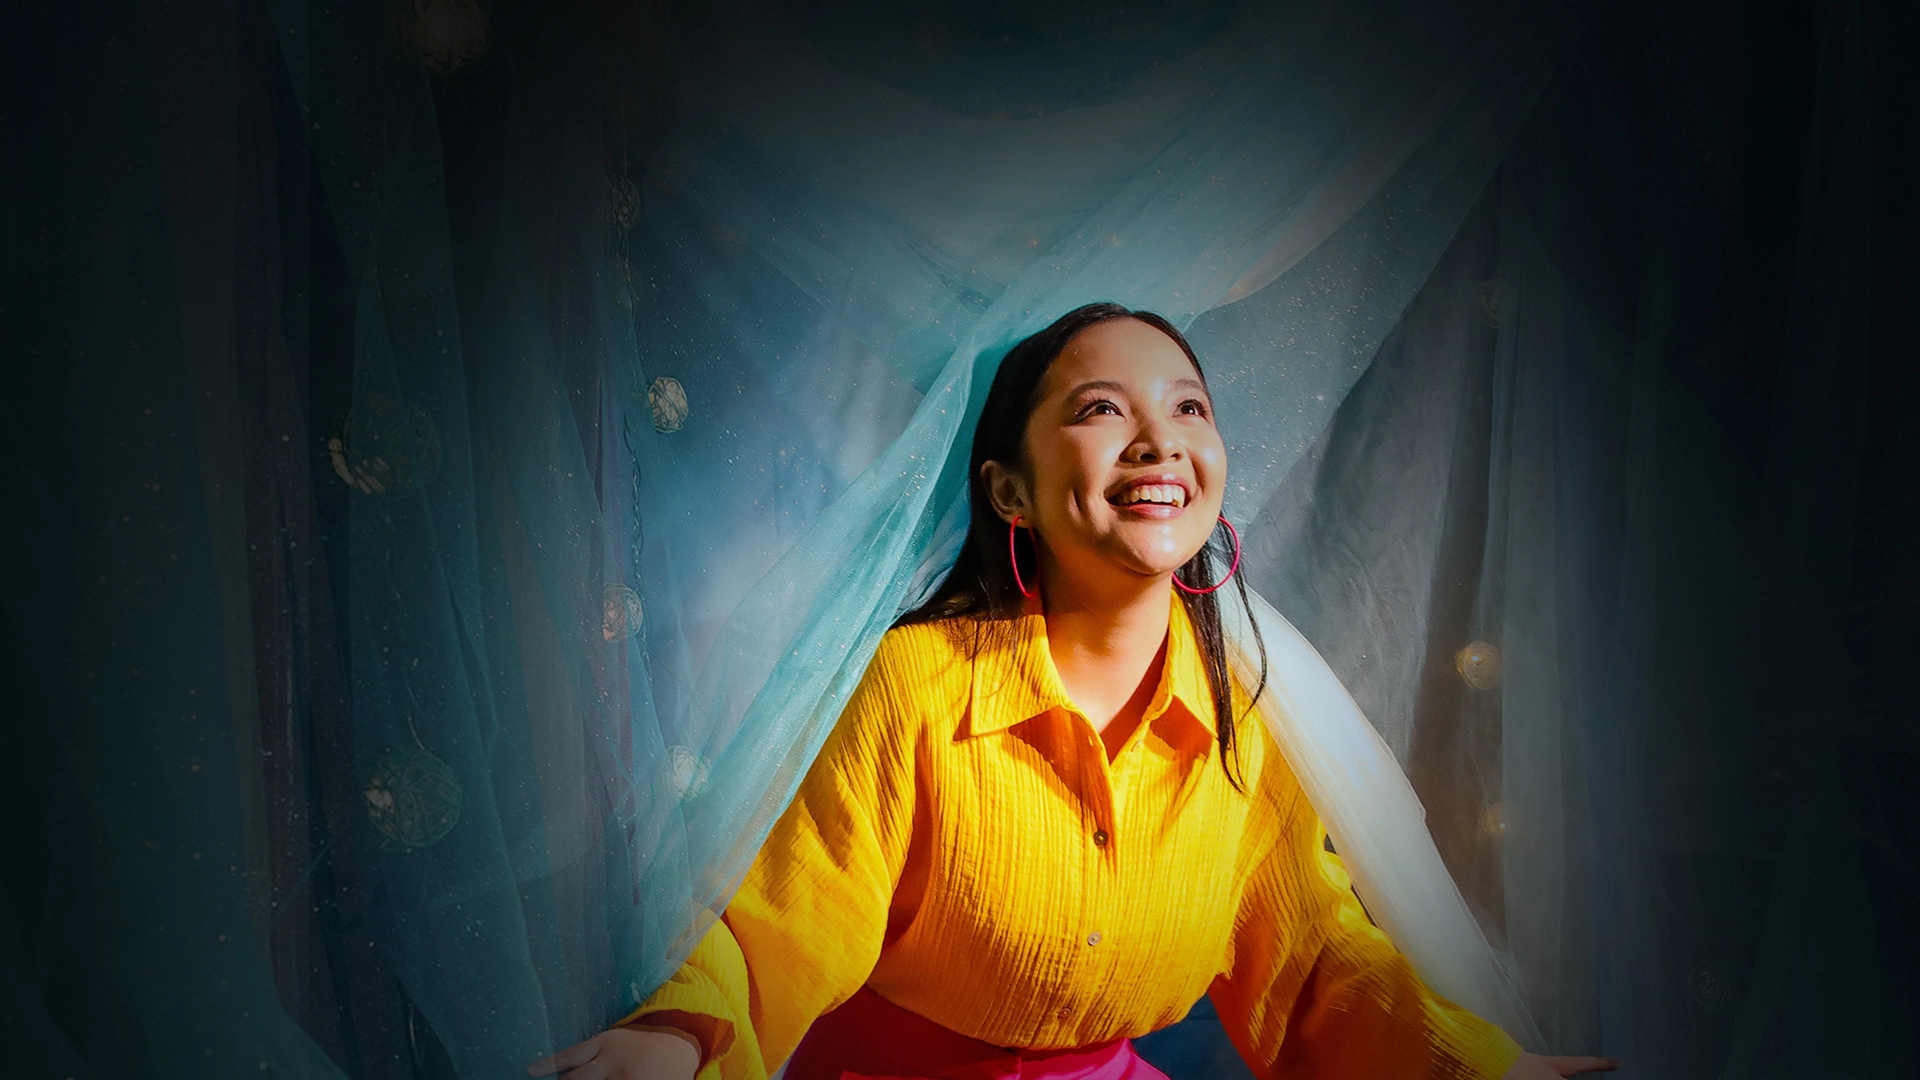
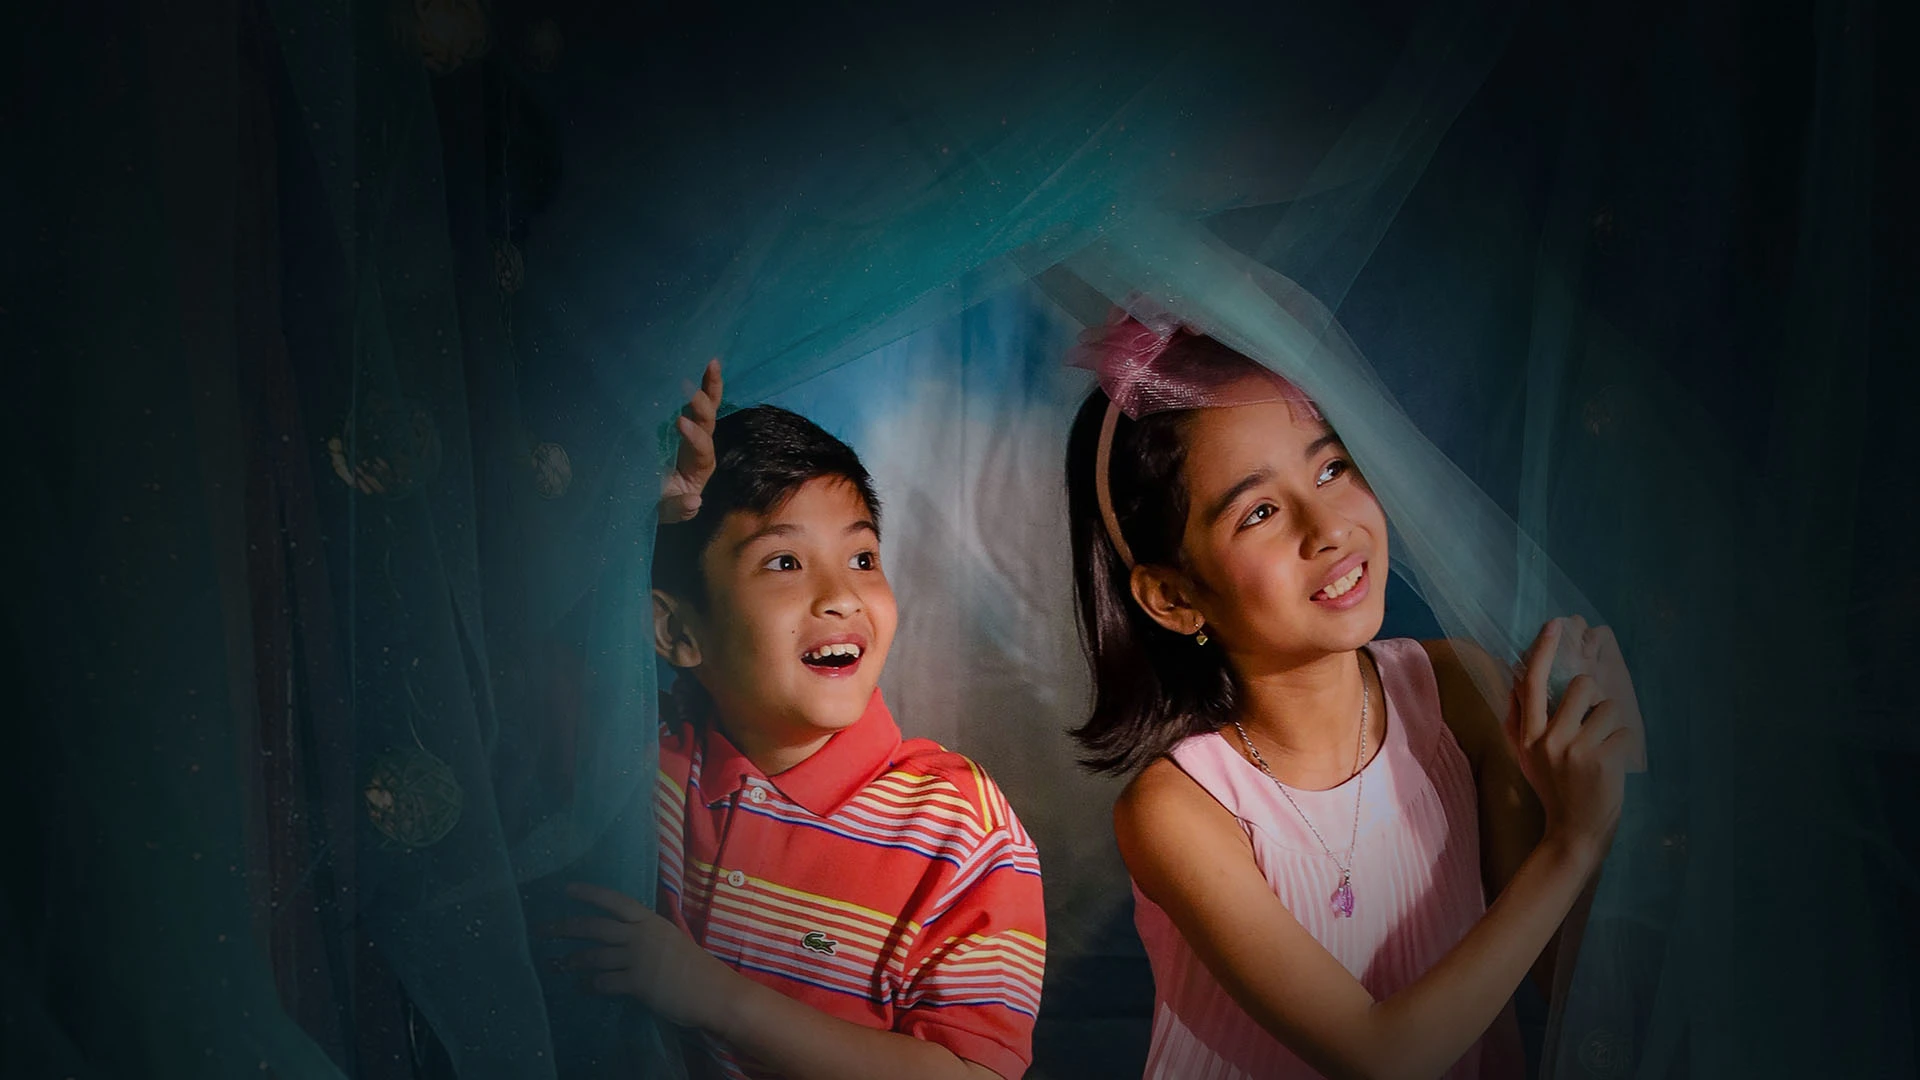
update images
change homepage images

diff --git a/index.html b/index.html
@@ -63,7 +63,7 @@
           <div class="carousel-inner">
             <div class="carousel-item active" data-bs-interval="2000">
              <figure>
-              <img src="/img/PICTURE4.webp" class="d-block w-100" alt="PICTURE4">
+              <img src="/img/PICTURE1.webp" class="d-block w-100" alt="PICTURE4">
              </figure>
               <div class="carousel-caption title">
                 <h1>THE STAGE IS YOURS</h1>
@@ -91,7 +91,7 @@
             </div>
             <div class="carousel-item" data-bs-interval="1500">
               <figure>
-                <img src="/img/PICTURE1.webp" class="d-block w-100" alt="PICTURE1">
+                <img src="/img/PICTURE4.webp" class="d-block w-100" alt="PICTURE1">
               </figure>
               <div class="carousel-caption power">
                 <h5></h5>
@@ -212,37 +212,47 @@
         <div class="row row-cols-1 row-cols-md-2 row-cols-lg-3 row-cols-xl-4 g-2">
           <div class="col">
             <div class="p-3">
-                <img src="/img/partner/AmariMoments.jpg" alt="">
+                <img src="/img/partner/AmariMoments.webp" alt="">
             </div>
           </div>
           <div class="col">
             <div class="p-3">
-              <img src="/img/partner/AyalaMallsThe30th.png" alt="">
+                <img src="/img/partner/JNADANCELOGO.webp" alt="">
             </div>
           </div>
           <div class="col">
             <div class="p-3">
-              <img src="/img/partner/CBNAsia.png" alt="">
+              <img src="/img/partner/AyalaMallsThe30th.webp" alt="">
             </div>
           </div>
           <div class="col">
             <div class="p-3">
-              <img src="/img/partner/FestivalMall.jpg" alt="">
+                <img src="/img/partner/BONIFACIOHIGHSTREETLOGO.webp" alt="">
             </div>
           </div>
           <div class="col">
             <div class="p-3">
-              <img src="/img/partner/KinderSpace.jpg" alt="">
+              <img src="/img/partner/CBNAsia.webp" alt="">
             </div>
           </div>
           <div class="col">
             <div class="p-3">
-              <img src="/img/partner/ManilaBulletin.jfif" alt="">
+              <img src="/img/partner/FestivalMall.webp" alt="">
             </div>
           </div>
           <div class="col">
             <div class="p-3">
-              <img src="/img/partner/The9thStudios.jfif" alt="">
+              <img src="/img/partner/KinderSpace.webp" alt="">
+            </div>
+          </div>
+          <div class="col">
+            <div class="p-3">
+              <img src="/img/partner/ManilaBulletin.webp" alt="">
+            </div>
+          </div>
+          <div class="col">
+            <div class="p-3">
+              <img src="/img/partner/The9thStudios.webp" alt="">
             </div>
           </div>
         </div>
